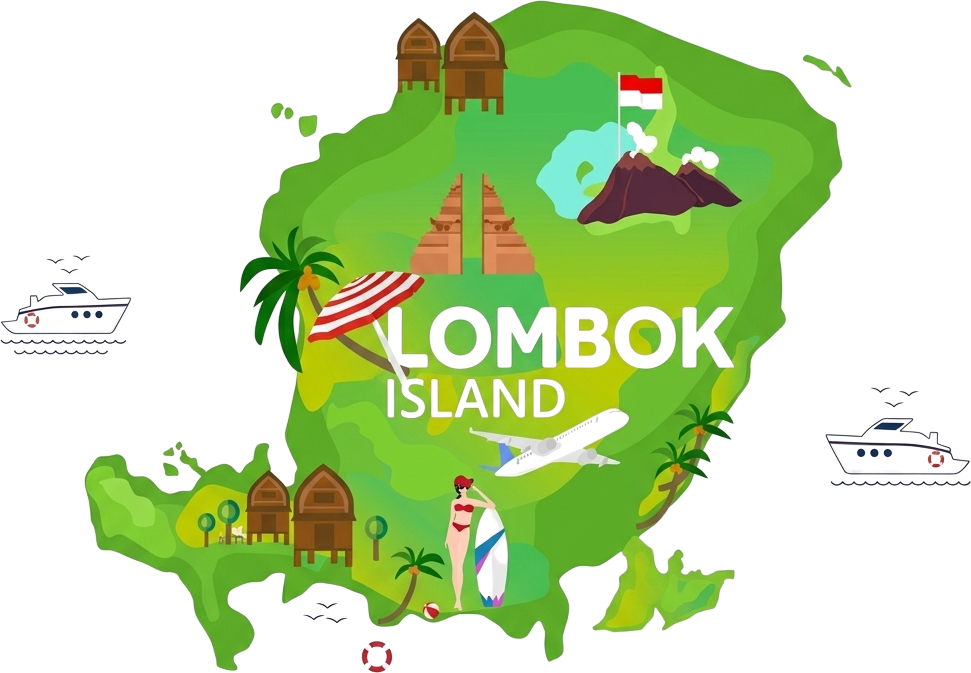
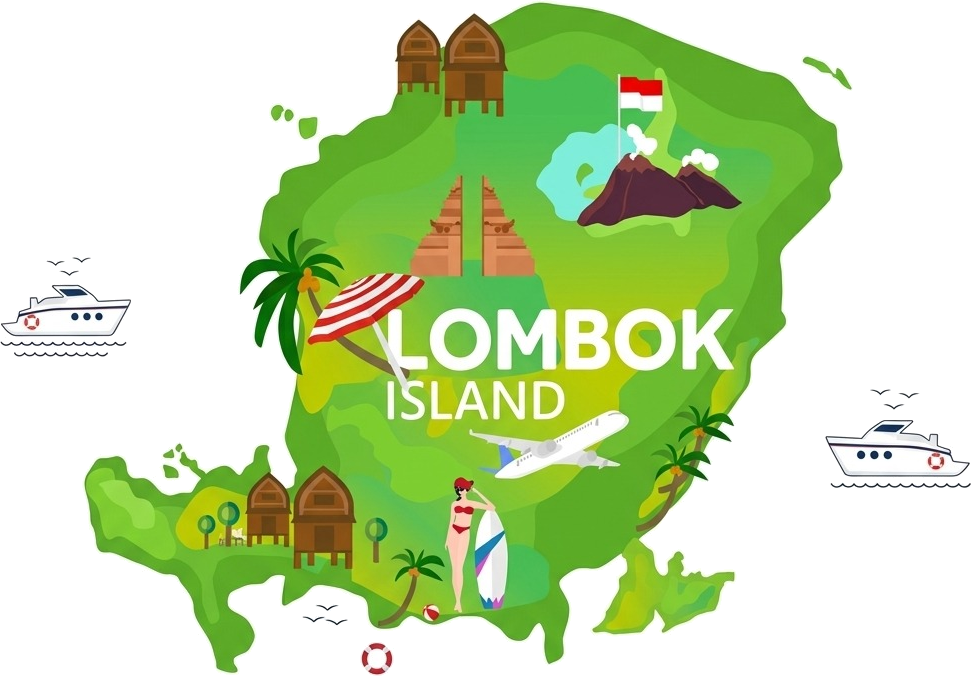
feat: solid opaque island map, compact preview cards, and prominent bottom-left Mandalika photo

diff --git a/components/PopularDestination.tsx b/components/PopularDestination.tsx
@@ -47,14 +47,14 @@ export default function PopularDestination() {
           
           {/* LEFT COLUMN: PETA LOMBOK DI TENGAH (FULL COLOR) + 4 FOTO DESTINASI PRESISI DENGAN TINGGI SEIMBANG */}
           <div
-            className={`lg:col-span-6 relative flex items-center justify-center min-h-[460px] sm:min-h-[490px] md:min-h-[510px] lg:min-h-[520px] w-full max-w-[540px] mx-auto transition-all duration-700 ease-out ${
+            className={`lg:col-span-6 relative flex items-center justify-center min-h-[480px] sm:min-h-[500px] md:min-h-[520px] w-full max-w-[540px] mx-auto transition-all duration-700 ease-out ${
               isVisible ? 'opacity-100 scale-100' : 'opacity-0 scale-75'
             }`}
           >
             
             {/* 1. Center Lombok Island Map (Non-transparan, Full Color Opaque Graphic) */}
             <div
-              className={`absolute top-1/2 left-1/2 -translate-x-1/2 -translate-y-1/2 w-[270px] sm:w-[310px] md:w-[340px] aspect-[971/673] pointer-events-none z-10 transition-all duration-1000 ease-out delay-150 ${
+              className={`absolute top-1/2 left-1/2 -translate-x-1/2 -translate-y-1/2 w-[290px] sm:w-[340px] md:w-[380px] aspect-[971/676] pointer-events-none z-10 transition-all duration-1000 ease-out delay-150 ${
                 isVisible ? 'opacity-100 scale-100' : 'opacity-0 scale-75'
               }`}
             >
@@ -81,7 +81,7 @@ export default function PopularDestination() {
               >
                 {/* Line 1: Northwest Map Pin -> Top-Left Photo (3 Gili Snorkeling) */}
                 <path
-                  d="M 180,190 C 150,160 130,135 110,115"
+                  d="M 175,190 C 150,160 130,135 100,115"
                   stroke="#0284c7"
                   strokeWidth="2.2"
                   strokeDasharray="4 5"
@@ -90,7 +90,7 @@ export default function PopularDestination() {
 
                 {/* Line 2: Northeast Map Pin -> Top-Right Photo (Sembalun & Rinjani) */}
                 <path
-                  d="M 335,185 C 365,155 385,135 405,115"
+                  d="M 345,180 C 370,155 390,135 405,115"
                   stroke="#0284c7"
                   strokeWidth="2.2"
                   strokeDasharray="4 5"
@@ -99,7 +99,7 @@ export default function PopularDestination() {
 
                 {/* Line 3: Southwest Map Pin -> Bottom-Left Photo (Pantai Mandalika) */}
                 <path
-                  d="M 190,325 C 160,355 140,375 120,395"
+                  d="M 190,325 C 160,350 135,370 105,385"
                   stroke="#0284c7"
                   strokeWidth="2.2"
                   strokeDasharray="4 5"
@@ -108,7 +108,7 @@ export default function PopularDestination() {
 
                 {/* Line 4: Southeast Map Pin -> Bottom-Right Photo (Pantai Pasir Putih) */}
                 <path
-                  d="M 325,330 C 355,355 375,375 395,395"
+                  d="M 330,330 C 355,355 375,370 395,385"
                   stroke="#0284c7"
                   strokeWidth="2.2"
                   strokeDasharray="4 5"
@@ -116,21 +116,17 @@ export default function PopularDestination() {
                 />
 
                 {/* Origin Map Pins (Glowing interactive dot points) */}
-                {/* Pin 1: 3 Gili */}
-                <circle cx="180" cy="190" r="5" fill="#0284c7" />
-                <circle cx="180" cy="190" r="9" stroke="#38bdf8" strokeWidth="1.5" opacity="0.7" />
+                <circle cx="175" cy="190" r="5" fill="#0284c7" />
+                <circle cx="175" cy="190" r="9" stroke="#38bdf8" strokeWidth="1.5" opacity="0.7" />
 
-                {/* Pin 2: Sembalun / Rinjani */}
-                <circle cx="335" cy="185" r="5" fill="#0284c7" />
-                <circle cx="335" cy="185" r="9" stroke="#38bdf8" strokeWidth="1.5" opacity="0.7" />
+                <circle cx="345" cy="180" r="5" fill="#0284c7" />
+                <circle cx="345" cy="180" r="9" stroke="#38bdf8" strokeWidth="1.5" opacity="0.7" />
 
-                {/* Pin 3: Mandalika / Sasak */}
                 <circle cx="190" cy="325" r="5" fill="#0284c7" />
                 <circle cx="190" cy="325" r="9" stroke="#38bdf8" strokeWidth="1.5" opacity="0.7" />
 
-                {/* Pin 4: Pantai Selatan */}
-                <circle cx="325" cy="330" r="5" fill="#0284c7" />
-                <circle cx="325" cy="330" r="9" stroke="#38bdf8" strokeWidth="1.5" opacity="0.7" />
+                <circle cx="330" cy="330" r="5" fill="#0284c7" />
+                <circle cx="330" cy="330" r="9" stroke="#38bdf8" strokeWidth="1.5" opacity="0.7" />
               </svg>
 
               {/* Decorative flight airplane icon */}
@@ -143,17 +139,17 @@ export default function PopularDestination() {
               </div>
             </div>
 
-            {/* 3. PHOTO DESTINASI SEKITAR PETA DENGAN UKURAN PRESISI & SEIMBANG */}
+            {/* 3. PHOTO DESTINASI SEKITAR PETA DENGAN UKURAN AGAK KECIL & PRESISI */}
 
             {/* Photo 1: KIRI ATAS - Snorkeling Patung Gili Meno */}
             <div
-              className={`absolute top-0 left-0 sm:left-1 z-20 w-[150px] sm:w-[170px] md:w-[185px] bg-white p-2 pb-3 rounded-2xl shadow-xl polaroid-card transition-all duration-700 ease-out transform ${
+              className={`absolute top-4 sm:top-5 md:top-6 left-2 sm:left-4 z-20 w-[115px] sm:w-[130px] md:w-[145px] bg-white p-2 pb-2.5 rounded-2xl shadow-xl polaroid-card transition-all duration-700 ease-out transform ${
                 isVisible
                   ? 'opacity-100 scale-100 -rotate-3 translate-x-0 translate-y-0'
                   : 'opacity-0 scale-50 rotate-0 -translate-x-12 -translate-y-12'
               } hover:rotate-0`}
             >
-              <div className="relative w-full aspect-[4/3] overflow-hidden rounded-xl">
+              <div className="relative w-full aspect-[4/3] overflow-hidden rounded-xl shadow-inner">
                 <Image
                   src="/packages/gili-trilogy.jpg"
                   alt="3 Gili Snorkeling & The Nest Statues"
@@ -161,25 +157,25 @@ export default function PopularDestination() {
                   className="object-cover"
                 />
               </div>
-              <div className="mt-2 text-center">
-                <span className="text-[11px] font-bold text-slate-800 tracking-tight block">
+              <div className="mt-1.5 text-center">
+                <span className="text-[10px] sm:text-[11px] font-bold text-slate-800 tracking-tight block">
                   3 Gili Snorkeling
                 </span>
-                <span className="text-[9px] text-sky-600 font-semibold block">
-                  Patung The Nest & Penyu
+                <span className="text-[8px] sm:text-[8.5px] text-sky-600 font-semibold block">
+                  Patung The Nest
                 </span>
               </div>
             </div>
 
-            {/* Photo 2: KANAN ATAS - Lembah Sembalun & Rinjani (LEBIH KECIL SESUAI PERMINTAAN) */}
+            {/* Photo 2: KANAN ATAS - Lembah Sembalun & Rinjani (AGAK KECIL) */}
             <div
-              className={`absolute top-2 right-0 sm:right-1 z-20 w-[130px] sm:w-[145px] md:w-[160px] bg-white p-2 pb-2.5 rounded-2xl shadow-xl polaroid-card transition-all duration-700 delay-150 ease-out transform ${
+              className={`absolute top-5 sm:top-6 md:top-7 right-2 sm:right-4 z-20 w-[110px] sm:w-[125px] md:w-[138px] bg-white p-2 pb-2.5 rounded-2xl shadow-xl polaroid-card transition-all duration-700 delay-150 ease-out transform ${
                 isVisible
                   ? 'opacity-100 scale-100 rotate-3 translate-x-0 translate-y-0'
                   : 'opacity-0 scale-0 rotate-0 translate-x-12 -translate-y-12'
               } hover:rotate-0`}
             >
-              <div className="relative w-full aspect-[4/3] overflow-hidden rounded-xl">
+              <div className="relative w-full aspect-[4/3] overflow-hidden rounded-xl shadow-inner">
                 <Image
                   src="/packages/senaru-sembalun.jpg"
                   alt="Sembalun Valley & Mount Rinjani View"
@@ -188,36 +184,36 @@ export default function PopularDestination() {
                 />
               </div>
               <div className="mt-1.5 text-center">
-                <span className="text-[10.5px] font-bold text-slate-800 tracking-tight block">
+                <span className="text-[10px] sm:text-[11px] font-bold text-slate-800 tracking-tight block">
                   Lembah Sembalun
                 </span>
-                <span className="text-[8.5px] text-emerald-600 font-semibold block">
-                  Kaki Gunung Rinjani
+                <span className="text-[8px] sm:text-[8.5px] text-emerald-600 font-semibold block">
+                  Gunung Rinjani
                 </span>
               </div>
             </div>
 
-            {/* Photo 3: KIRI BAWAH - Pantai Mandalika & Sade (GAMBAR JELAS & TAMPIL PENUH) */}
+            {/* Photo 3: KIRI BAWAH - Pantai Mandalika & Sade (MENGISI SUDUT AGAR TIDAK KOSONG) */}
             <div
-              className={`absolute bottom-1 left-0 sm:left-1 z-20 w-[140px] sm:w-[160px] md:w-[175px] bg-white p-2 pb-3 rounded-2xl shadow-xl polaroid-card transition-all duration-700 delay-300 ease-out transform ${
+              className={`absolute bottom-5 sm:bottom-7 md:bottom-8 left-2 sm:left-4 z-20 w-[115px] sm:w-[130px] md:w-[145px] bg-white p-2 pb-2.5 rounded-2xl shadow-xl polaroid-card transition-all duration-700 delay-300 ease-out transform ${
                 isVisible
                   ? 'opacity-100 scale-100 -rotate-2 translate-x-0 translate-y-0'
                   : 'opacity-0 scale-0 rotate-0 -translate-x-12 translate-y-12'
               } hover:rotate-0`}
             >
-              <div className="relative w-full aspect-[4/3] overflow-hidden rounded-xl">
+              <div className="relative w-full aspect-[4/3] overflow-hidden rounded-xl shadow-inner">
                 <Image
                   src="/packages/sasak-mandalika.jpg"
-                  alt="Pantai Tanjung Aan & Bukit Merese Mandalika"
+                  alt="Pantai Mandalika & Bukit Merese"
                   fill
                   className="object-cover"
                 />
               </div>
               <div className="mt-1.5 text-center">
-                <span className="text-[10.5px] font-bold text-slate-800 tracking-tight block">
+                <span className="text-[10px] sm:text-[11px] font-bold text-slate-800 tracking-tight block">
                   Pantai Mandalika
                 </span>
-                <span className="text-[8.5px] text-sky-600 font-semibold block">
+                <span className="text-[8px] sm:text-[8.5px] text-sky-600 font-semibold block">
                   Bukit Merese & Sade
                 </span>
               </div>
@@ -225,13 +221,13 @@ export default function PopularDestination() {
 
             {/* Photo 4: KANAN BAWAH - Pantai Pasir Putih & Perahu Kayu */}
             <div
-              className={`absolute bottom-0 right-0 sm:right-1 z-20 w-[145px] sm:w-[165px] md:w-[180px] bg-white p-2 pb-3 rounded-2xl shadow-xl polaroid-card transition-all duration-700 delay-500 ease-out transform ${
+              className={`absolute bottom-4 sm:bottom-6 md:bottom-7 right-2 sm:right-4 z-20 w-[115px] sm:w-[130px] md:w-[145px] bg-white p-2 pb-2.5 rounded-2xl shadow-xl polaroid-card transition-all duration-700 delay-500 ease-out transform ${
                 isVisible
                   ? 'opacity-100 scale-100 rotate-2 translate-x-0 translate-y-0'
                   : 'opacity-0 scale-0 rotate-0 translate-x-12 translate-y-12'
               } hover:rotate-0`}
             >
-              <div className="relative w-full aspect-[4/3] overflow-hidden rounded-xl">
+              <div className="relative w-full aspect-[4/3] overflow-hidden rounded-xl shadow-inner">
                 <Image
                   src="/packages/paket-3d2n.jpg"
                   alt="Pantai Tropis & Perahu Tradisional Lombok"
@@ -239,12 +235,12 @@ export default function PopularDestination() {
                   className="object-cover"
                 />
               </div>
-              <div className="mt-2 text-center">
-                <span className="text-[10.5px] font-bold text-slate-800 tracking-tight block">
+              <div className="mt-1.5 text-center">
+                <span className="text-[10px] sm:text-[11px] font-bold text-slate-800 tracking-tight block">
                   Pantai Pasir Putih
                 </span>
-                <span className="text-[8.5px] text-amber-600 font-semibold block">
-                  Perahu Kayu Tradisional
+                <span className="text-[8px] sm:text-[8.5px] text-amber-600 font-semibold block">
+                  Perahu Tradisional
                 </span>
               </div>
             </div>
